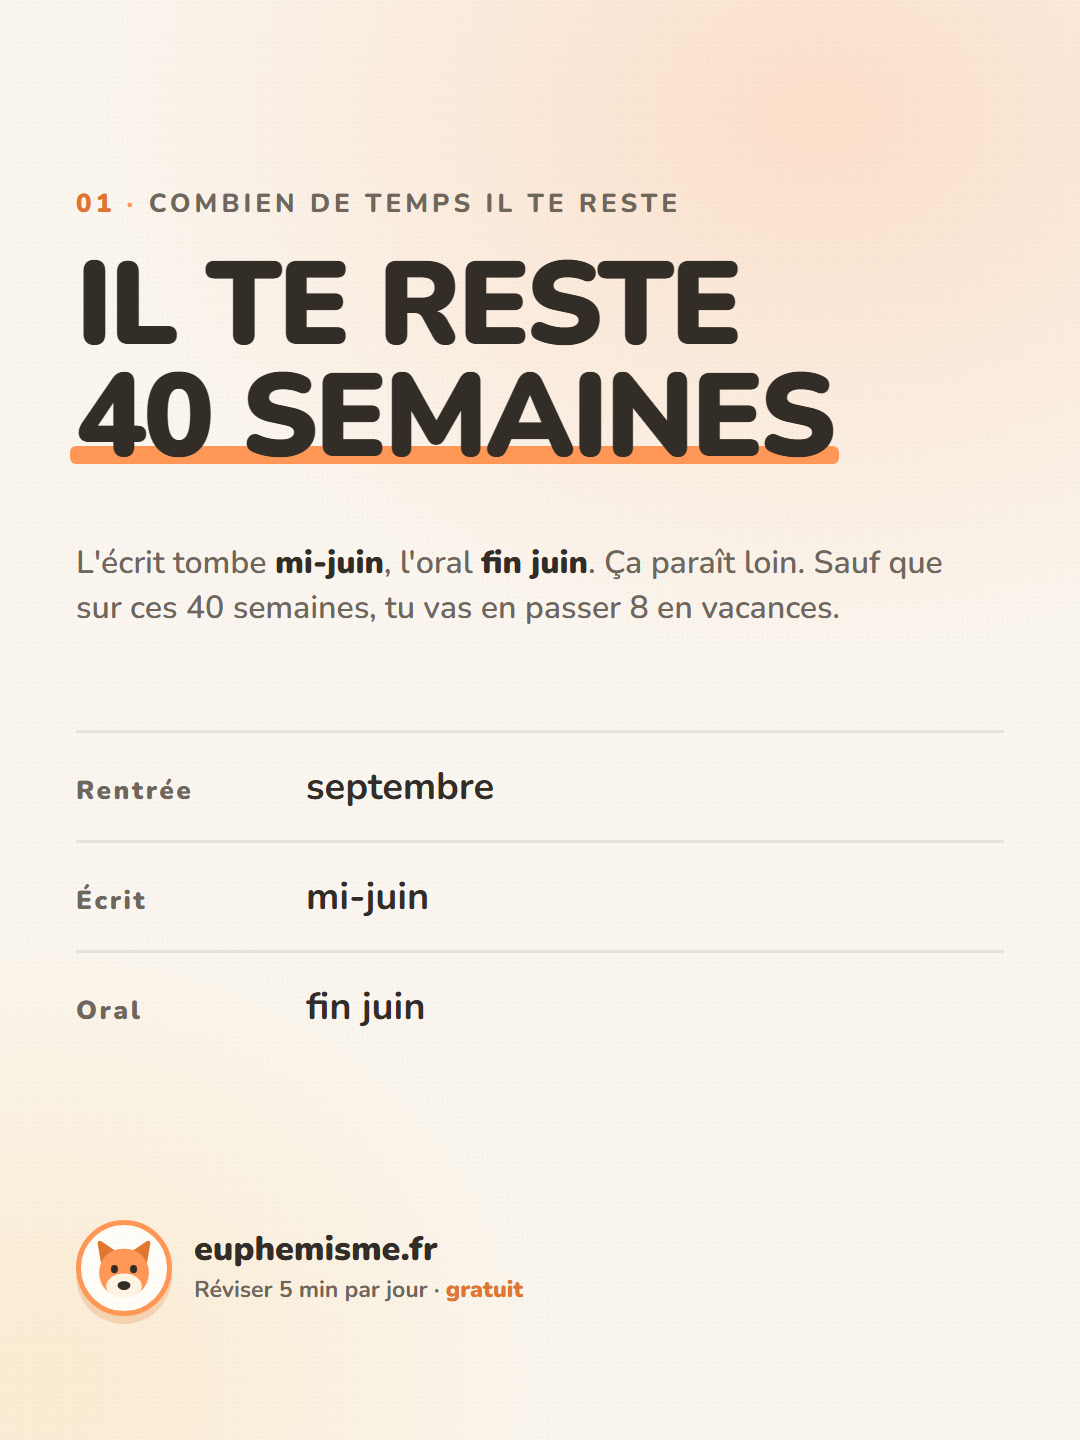
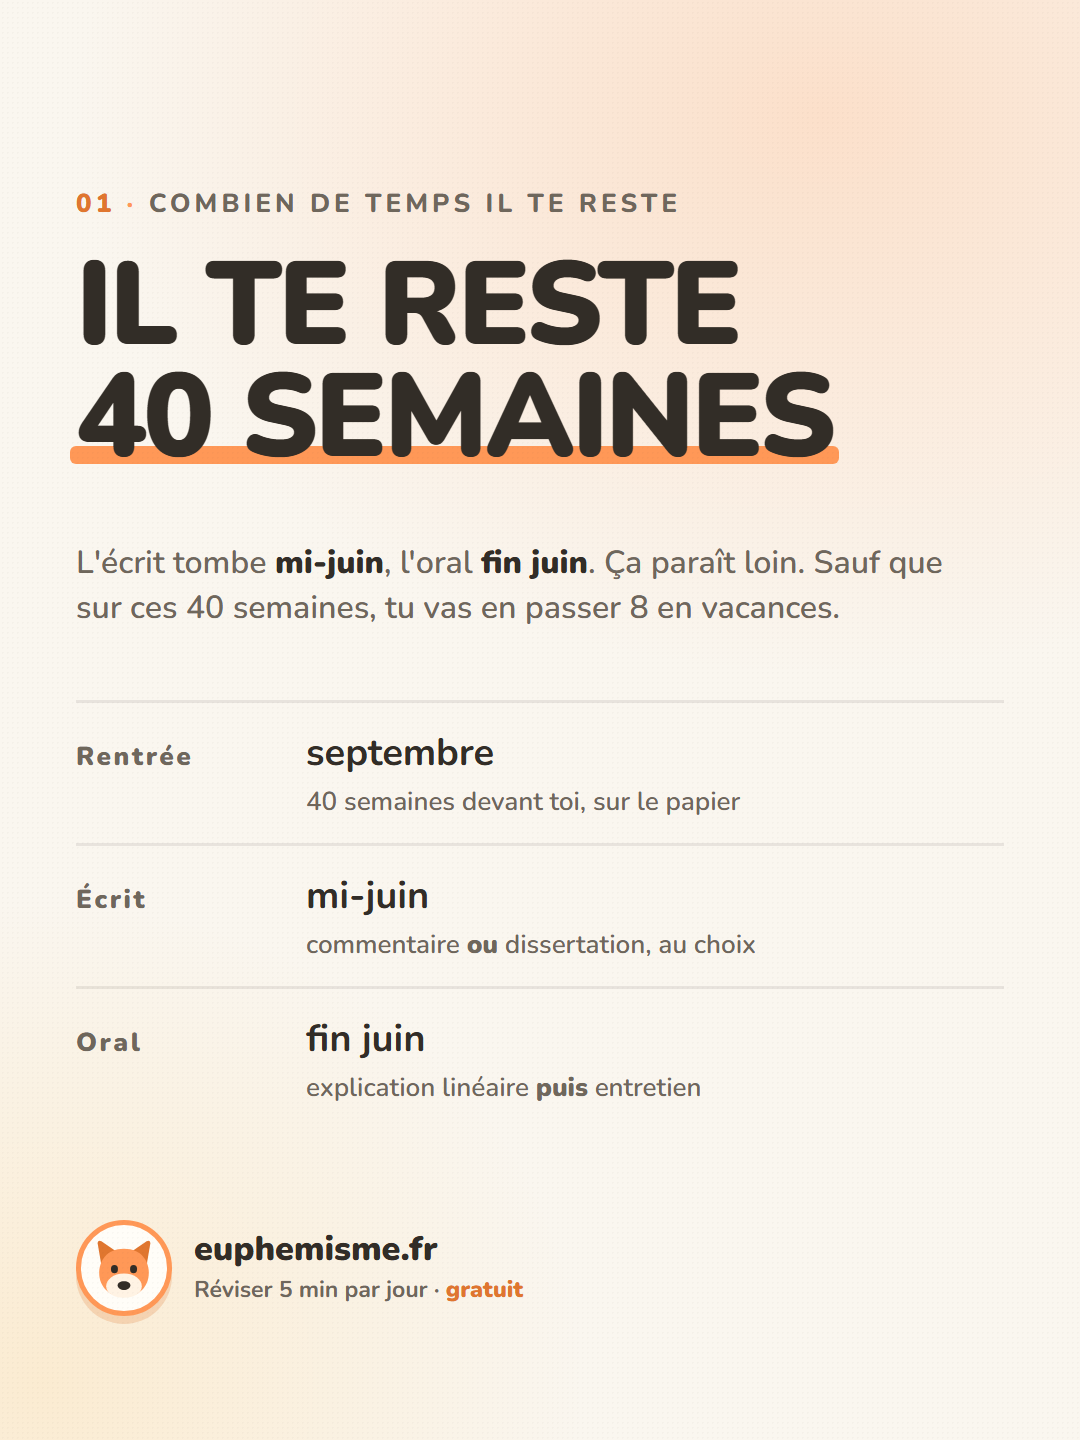
budget-temps 01 : ce que recouvrent l'ecrit et l'oral

diff --git a/posts/budget-temps/html/01.html b/posts/budget-temps/html/01.html
@@ -9,8 +9,11 @@
            font-size: 118px; line-height: .95; z-index: 25; }
   .lead { position: absolute; left: 76px; right: 100px; top: 540px; z-index: 30; }
   .proofs { position: absolute; left: 76px; right: 76px; top: 730px; z-index: 30; }
-  .proofs li { font-size: 38px; padding: 28px 0; }
-  .proofs li .n { font-size: 26px; min-width: 210px; color: var(--wolf); }
+  .proofs { top: 700px; }
+  .proofs li { font-size: 38px; padding: 24px 0; align-items: flex-start; }
+  .proofs li .n { font-size: 26px; min-width: 210px; color: var(--wolf); padding-top: 12px; }
+  .proofs li .s { display: block; font-size: 26px; font-weight: 600;
+                  color: var(--wolf); margin-top: 6px; }
   .sign { position: absolute; left: 76px; bottom: 124px; z-index: 35; }
 </style>
 </head>
@@ -25,9 +28,12 @@
   &Ccedil;a para&icirc;t loin. Sauf que sur ces 40&nbsp;semaines, tu vas en passer 8 en vacances.</p>
 
   <ul class="proofs">
-    <li><span class="n">Rentr&eacute;e</span> septembre</li>
-    <li><span class="n">&Eacute;crit</span> mi-juin</li>
-    <li><span class="n">Oral</span> fin juin</li>
+    <li><span class="n">Rentr&eacute;e</span> <span>septembre
+      <span class="s">40 semaines devant toi, sur le papier</span></span></li>
+    <li><span class="n">&Eacute;crit</span> <span>mi-juin
+      <span class="s">commentaire <b>ou</b> dissertation, au choix</span></span></li>
+    <li><span class="n">Oral</span> <span>fin juin
+      <span class="s">explication lin&eacute;aire <b>puis</b> entretien</span></span></li>
   </ul>
 
   <div class="sign">
